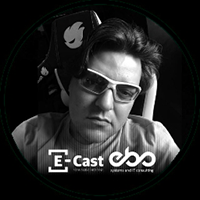
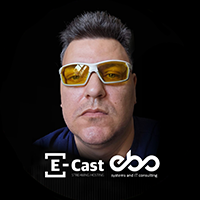
fix Edson card

diff --git a/parceiros.html b/parceiros.html
@@ -80,7 +80,7 @@
                     </div>
                     <h3>E-Cast</h3>
                     <p class="partner-category">Soluções em Streaming</p>
-                    <p class="partner-description">Soluções completas em streaming de áudio e vídeo para ádios, TVs e eventos ao vivo. Qualidade, estabiliade e tecnologia de ponta para sua transmissão.</p>
+                    <p class="partner-description">Soluções completas em streaming de áudio e vídeo para Rádios, TVs e eventos ao vivo. Qualidade, estabiliade e tecnologia de ponta para sua transmissão.</p>
                     <a href="https://ecast.site" target="_blank">
                     <button class="neon-button">Conheça a E-Cast</button>
                     </a>
@@ -208,7 +208,7 @@
         </section>
         
         <section class="team-section snap-section">
-            <h2 class="section-title">Nossa Equipe</h2>
+            <h2 class="section-title">Equipe Spocky Games</h2>
             <div class="team-grid">
                 <div class="team-card">
                     <div class="team-avatar">
@@ -241,12 +241,16 @@
                     </div>
                     <div class="team-info">
                         <h3>Edson</h3>
-                        <p class="team-role">Patrocinador / Moderador</p>
-                        <p class="team-description">Edson é moderador e grande amigo de Mateus Spocky, e faz parte da equipe do canal desde o inicio.</p>
+                        <p class="team-role">Patrocinador</p>
+                        <p class="team-description">Proprietário da E-Cast e da E.b.o Systems, fornece toda estrutura de servidores e patrocina o canal.</p>
                         <div class="team-social">
+                            <a href="https://ecast.site" target="_blank" class="social-icon tiktok">
+                                <i class="fas fa-globe"></i>
+                            </a>
                             <a href="https://discordapp.com/users/1366153073852027091" target="_blank" class="social-icon discord">
                                 <i class="fab fa-discord"></i>
                             </a>
+
                         </div>
                     </div>
                 </div>
